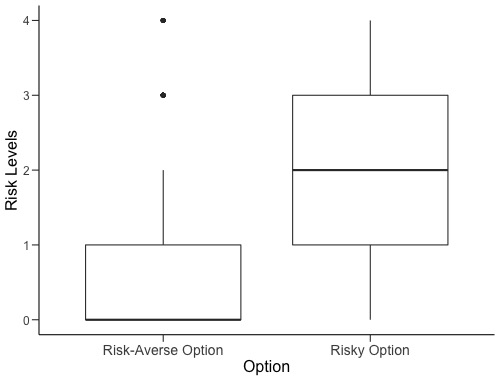
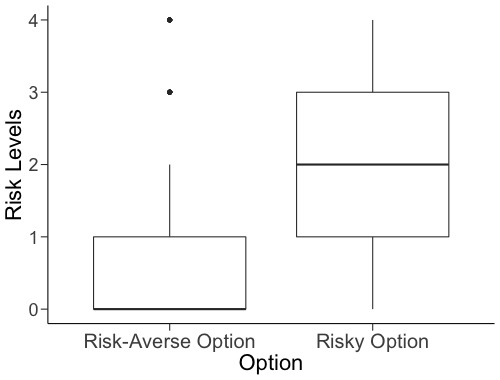
Boxplots for all

Changed region(s): [[0.0, 0.0289, 0.99, 0.9842], [0.3, 0.2316, 0.36, 0.2605], [0.3, 0.0289, 0.36, 0.0579]]

diff --git a/viz.html b/viz.html
@@ -189,13 +189,21 @@ risk_pred &lt;- read_spss(&quot;/Users/yedam/Documents/GitHub/DSP/Project/projec
 
 write_sav(risk_all, &quot;data/risk_all.sav&quot;)
 write_sav(risk_sur, &quot;data/risk_sur.sav&quot;)
-write_sav(risk_pred, &quot;data/risk_pred.sav&quot;)</code></pre>
+write_sav(risk_pred, &quot;data/risk_pred.sav&quot;)
+
+
+risk_all &lt;- risk_all %&gt;% 
+  mutate(gender = as_factor(gender),
+         condition = as_factor(condition),
+         rel_self = as_factor(rel_self),
+         rel_friend1 = as_factor(rel_friend1),
+         rel_friend2 = as_factor(rel_friend2)) </code></pre>
 <pre class="r"><code>mytheme = theme(
-  axis.title.x = element_text(size = 16),
-  axis.text.x = element_text(size = 14),
-  axis.title.y = element_text(size = 16),
+  axis.title.x = element_text(size = 22),
+  axis.text.x = element_text(size = 20),
+  axis.title.y = element_text(size = 22),
   axis.ticks.length=unit(.25, &quot;cm&quot;),
-  axis.text = element_text(size = 12)
+  axis.text = element_text(size = 18)
 )</code></pre>
 <pre class="r"><code>jpeg(&quot;manipulationcheck.jpg&quot;, width = 500, height = 380)
 
@@ -214,6 +222,62 @@ risk_all %&gt;%
 ##                 2</code></pre>
 <p>Problem: Error in pivot_longer(., c(riskyrisk, riskavrisk), names_to = “option”, : object ‘risk_all’ not found Calls: <Anonymous> … withVisible -&gt; eval -&gt; eval -&gt; %&gt;% -&gt; ggplot -&gt; pivot_longer Execution halted</p>
 <p>Solution: If you have added eval = FALSE the earlier R code won’t execute in which you have created your object. So when you again use that object in a different chunk it will fail with object not found message.</p>
+<pre class="r"><code>jpeg(&quot;risklevel.jpg&quot;, width = 500, height = 380)
+
+risk_all %&gt;% 
+  ggplot(aes(y = risklevel, x = condition)) +
+  geom_boxplot() +
+  labs(x = &quot;Condition&quot;,
+       y = &quot;Risk-Taking Level&quot;) +
+  scale_x_discrete(labels = c(&quot;Self&quot;, &quot;Surrogate&quot;, &quot;Prediction&quot;)) +
+  theme_classic() +
+  mytheme</code></pre>
+<pre><code>## Don&#39;t know how to automatically pick scale for object of type haven_labelled/vctrs_vctr/double. Defaulting to continuous.</code></pre>
+<pre class="r"><code>dev.off()</code></pre>
+<pre><code>## quartz_off_screen 
+##                 2</code></pre>
+<pre class="r"><code>jpeg(&quot;neg.jpg&quot;, width = 500, height = 380)
+
+risk_all %&gt;% 
+  ggplot(aes(y = neg, x = condition)) +
+  geom_boxplot() +
+  labs(x = &quot;Condition&quot;,
+       y = &quot;Negative Emotion&quot;) +
+  scale_x_discrete(labels = c(&quot;Self&quot;, &quot;Surrogate&quot;, &quot;Prediction&quot;)) +
+  theme_classic() +
+  mytheme</code></pre>
+<pre><code>## Don&#39;t know how to automatically pick scale for object of type haven_labelled/vctrs_vctr/double. Defaulting to continuous.</code></pre>
+<pre class="r"><code>dev.off()</code></pre>
+<pre><code>## quartz_off_screen 
+##                 2</code></pre>
+<pre class="r"><code>jpeg(&quot;pos.jpg&quot;, width = 500, height = 380)
+
+risk_all %&gt;% 
+  ggplot(aes(y = neg, x = condition)) +
+  geom_boxplot() +
+  labs(x = &quot;Condition&quot;,
+       y = &quot;Positive Emotion&quot;) +
+  scale_x_discrete(labels = c(&quot;Self&quot;, &quot;Surrogate&quot;, &quot;Prediction&quot;)) +
+  theme_classic() +
+  mytheme</code></pre>
+<pre><code>## Don&#39;t know how to automatically pick scale for object of type haven_labelled/vctrs_vctr/double. Defaulting to continuous.</code></pre>
+<pre class="r"><code>dev.off()</code></pre>
+<pre><code>## quartz_off_screen 
+##                 2</code></pre>
+<pre class="r"><code>jpeg(&quot;alert.jpg&quot;, width = 500, height = 380)
+
+risk_all %&gt;% 
+  ggplot(aes(y = alert, x = condition)) +
+  geom_boxplot() +
+  labs(x = &quot;Condition&quot;,
+       y = &quot;Alertness&quot;) +
+  scale_x_discrete(labels = c(&quot;Self&quot;, &quot;Surrogate&quot;, &quot;Prediction&quot;)) +
+  theme_classic() +
+  mytheme</code></pre>
+<pre><code>## Don&#39;t know how to automatically pick scale for object of type haven_labelled/vctrs_vctr/double. Defaulting to continuous.</code></pre>
+<pre class="r"><code>dev.off()</code></pre>
+<pre><code>## quartz_off_screen 
+##                 2</code></pre>
 
 
 
